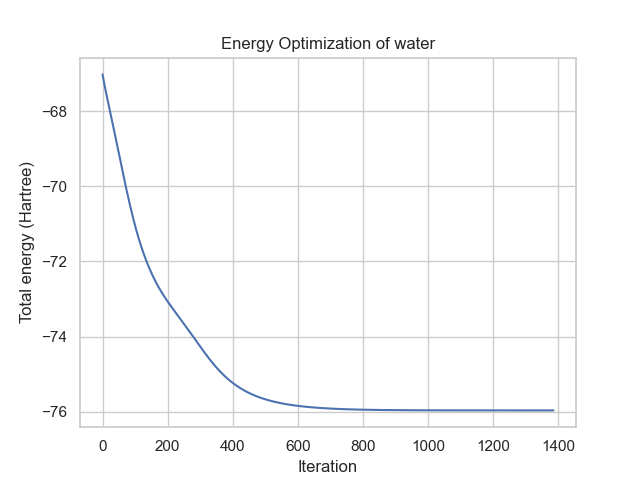
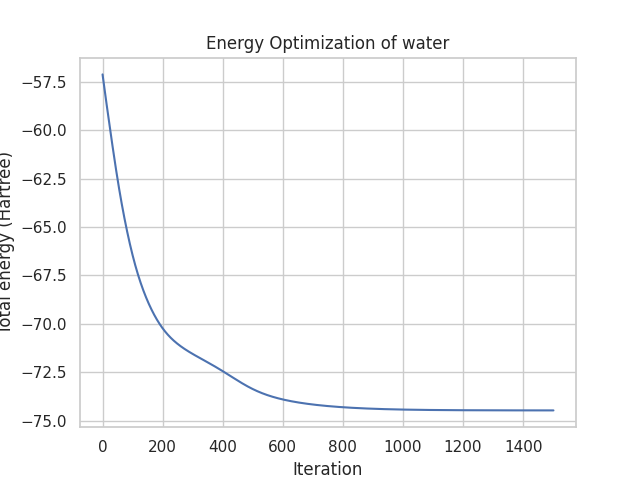
bash script

diff --git a/dft_opt/hamiltonian.py b/dft_opt/hamiltonian.py
@@ -1,37 +1,39 @@
 import equinox as eqx
 import jax.numpy as jnp
 import jax.numpy.linalg as jnl
-from .orthonormalize import cayley
+from .orthonormalize import cayley, qr
 from pyscfad.gto import Mole
-from pyscfad.dft import RKS
+# from pyscfad.dft import RKS
 from pyscfad.scf import RHF
-
+from typing import Union
+    
 
 class Hamiltonian(eqx.Module):
-    mol: Mole
-    kernel: RHF
+    _mol: Mole
+    _kernel: RHF
+    _orthos: Union[cayley, qr]
 
-    def __init__(self, mol, kernel):
-        self.mol = mol
-        self.kernel = kernel
+    def __init__(self, mol: Mole, kernel: RHF, orthos: str):
+        self._mol = mol
+        self._kernel = kernel
+        self._orthos = cayley if orthos == "cayley" else qr
     
-    def density_matrix(self, C):
+    def density_matrix(self, C: jnp.ndarray) ->jnp.ndarray:
         return jnp.einsum("k,ik,jk->ij", self.occupancy, C, C)
 
-    def orthonormalize(self, Z):
-        Q = jnl.qr(Z).Q
-        # Q = cayley(Z)
+    def orthonormalize(self, Z: jnp.ndarray) -> jnp.ndarray:
+        Q = self._orthos(Z)
         return Q
 
-    def __call__(self, P):
-        h1e = self.kernel.get_hcore()
-        vhf = self.kernel.get_veff(dm=P)
-        e_tot = self.kernel.energy_tot(dm=P, h1e=h1e, vhf=vhf)
+    def __call__(self, P: jnp.ndarray) -> jnp.ndarray:
+        h1e = self._kernel.get_hcore()
+        vhf = self._kernel.get_veff(dm=P)
+        e_tot = self._kernel.energy_tot(dm=P, h1e=h1e, vhf=vhf)
         return e_tot
     
     @property
-    def X(self):
-        S = jnp.array(self.mol.intor(f"int1e_ovlp"))
+    def X(self) -> jnp.ndarray:
+        S = jnp.array(self._mol.intor(f"int1e_ovlp"))
         N = 1 / jnp.sqrt(jnp.diagonal(S))
         overlap = N[:, jnp.newaxis] * N[jnp.newaxis, :] * S
 
@@ -41,13 +43,13 @@ class Hamiltonian(eqx.Module):
         return X
 
     @property
-    def occupancy(self):
-        occ = jnp.full(self.mol.nao, 2.0)
-        mask = occ.cumsum() > self.mol.tot_electrons()
+    def occupancy(self) -> jnp.ndarray:
+        occ = jnp.full(self._mol.nao, 2.0)
+        mask = occ.cumsum() > self._mol.tot_electrons()
         occ = jnp.where(mask, 0.0, occ)
         return occ
     
     @property
-    def hcore(self):
-        core = self.kernel.get_hcore(self.mol)
+    def hcore(self) -> jnp.ndarray:
+        core = self._kernel.get_hcore(self._mol)
         return core

diff --git a/main.py b/main.py
@@ -4,16 +4,15 @@
 import jax
 import time
 import argparse
-import warnings
 
-from pyscfad import scf, dft
+from pyscfad import scf
 from dft_opt import (
     get_molecule, 
     solve, 
     solve_with_history, 
     plot_energy, 
     validate, 
-    Hamiltonian
+    Hamiltonian,
 )
 ####################################
 
@@ -32,6 +31,7 @@ def main():
     parser.add_argument("--basis", type=str, default="def2-SVP", help="Basis set to use (e.g., cc-pVDZ)")
     parser.add_argument("--molecule", type=str, required=True, help="Molecule name (e.g., H2O)")
     parser.add_argument("--optimizer", type=str, default="BFGS", help="Optimizer to use")
+    parser.add_argument("--ortho", type=str, default="qr", help="Orthogonalization method to use")
     parser.add_argument("--num_iter", type=int, default=4000, help="Number of iterations for optimizer")
     parser.add_argument("--lr", type=float, default=0.001, help="Learning rate for Adam optimizer")
     args = parser.parse_args()
@@ -48,6 +48,8 @@ def main():
     ####################################
     mol = get_molecule(args.molecule, args.basis)
     mf = scf.RHF(mol)
+    mf.kernel()
+
     start_time = time.time()
     pyscf_energy = mf.kernel()
     pyscf_time = (time.time() - start_time) * 1000
@@ -57,7 +59,7 @@ def main():
     ####################################
     # Solve with JAX
     ####################################
-    H = Hamiltonian(mol=mol, kernel=mf)
+    H = Hamiltonian(mol=mol, kernel=mf, orthos=args.ortho)
     Z, E, elapsed_time = solve(H, args.num_iter, args.lr, args.optimizer)
     print(f"JAX Energy: [{E:.2f}], Time: [{elapsed_time:.2f} ms]", flush=True)
     ####################################

diff --git a/dft_opt/opt.py b/dft_opt/opt.py
@@ -6,11 +6,11 @@ import jax.numpy as jnp
 import optimistix as optx
 
 
-def get_solver(optimizer, atol=1e-4, rtol=1e-4):
+def get_solver(optimizer, atol=1e-4, rtol=1e-4, lr=0.001):
     if optimizer == "BFGS":
         return optx.BFGS(atol=atol, rtol=rtol)
     elif optimizer == "Adam":
-        optim = optax.adam(learning_rate=0.001)
+        optim = optax.adam(learning_rate=lr)
         return optx.OptaxMinimiser(optim, atol=atol, rtol=rtol)
     elif optimizer == "CG":
         return optx.NonlinearCG (atol=atol, rtol=rtol)
@@ -20,7 +20,7 @@ def get_solver(optimizer, atol=1e-4, rtol=1e-4):
 
 def solve(H, iter, lr, optimizer):
     n, _ = H.X.shape
-    Z_init = jnp.eye(n)
+    Z_init = jnp.eye(n, device=H.X.device)
     
     @jax.jit
     def energy(Z, _):
@@ -29,7 +29,7 @@ def solve(H, iter, lr, optimizer):
         out = H(P)
         return out
 
-    solver = get_solver(optimizer)
+    solver = get_solver(optimizer=optimizer, lr=lr)
 
     start_time = time.time()
     sol = optx.minimise(energy, solver, Z_init, max_steps=iter)
@@ -49,7 +49,7 @@ def solve_with_history(H, iter, lr, optimizer):
         aux = None
         return e, aux
 
-    solver = get_solver(optimizer)
+    solver = get_solver(optimizer=optimizer, lr=lr)
 
     args = None
     f_struct = jax.ShapeDtypeStruct((), jnp.float64)

diff --git a/dft_opt/orthonormalize.py b/dft_opt/orthonormalize.py
@@ -4,6 +4,12 @@ import jax.numpy.linalg as jnl
 
 
 @jax.jit
+def qr(Z):
+    Q, _ = jnl.qr(Z)
+    return Q
+
+
+@jax.jit
 def cayley(Z):
     X = jnp.tril(Z, -1) - jnp.tril(Z, -1).T
     Q = jnl.solve(jnp.eye(X.shape[0]) + X, jnp.eye(X.shape[0]) - X)
@@ -26,6 +32,3 @@ def validate(Z, H, nelec):
 
     assert jnp.allclose(jnp.eye(Z.shape[0]), Q.T @ Q, atol=1e-5), "Q is not orthonormal"
     assert jnp.allclose(nelec, jnp.trace(P @ S), atol=1e-5), f"Trace(P @ S) != N"
-
-    Hessian = jax.hessian(lambda X: energy(X, H)[0])(Z)
-    assert jnl.eigh(Hessian)[0].all() >= 0, "Hession != PSD"
